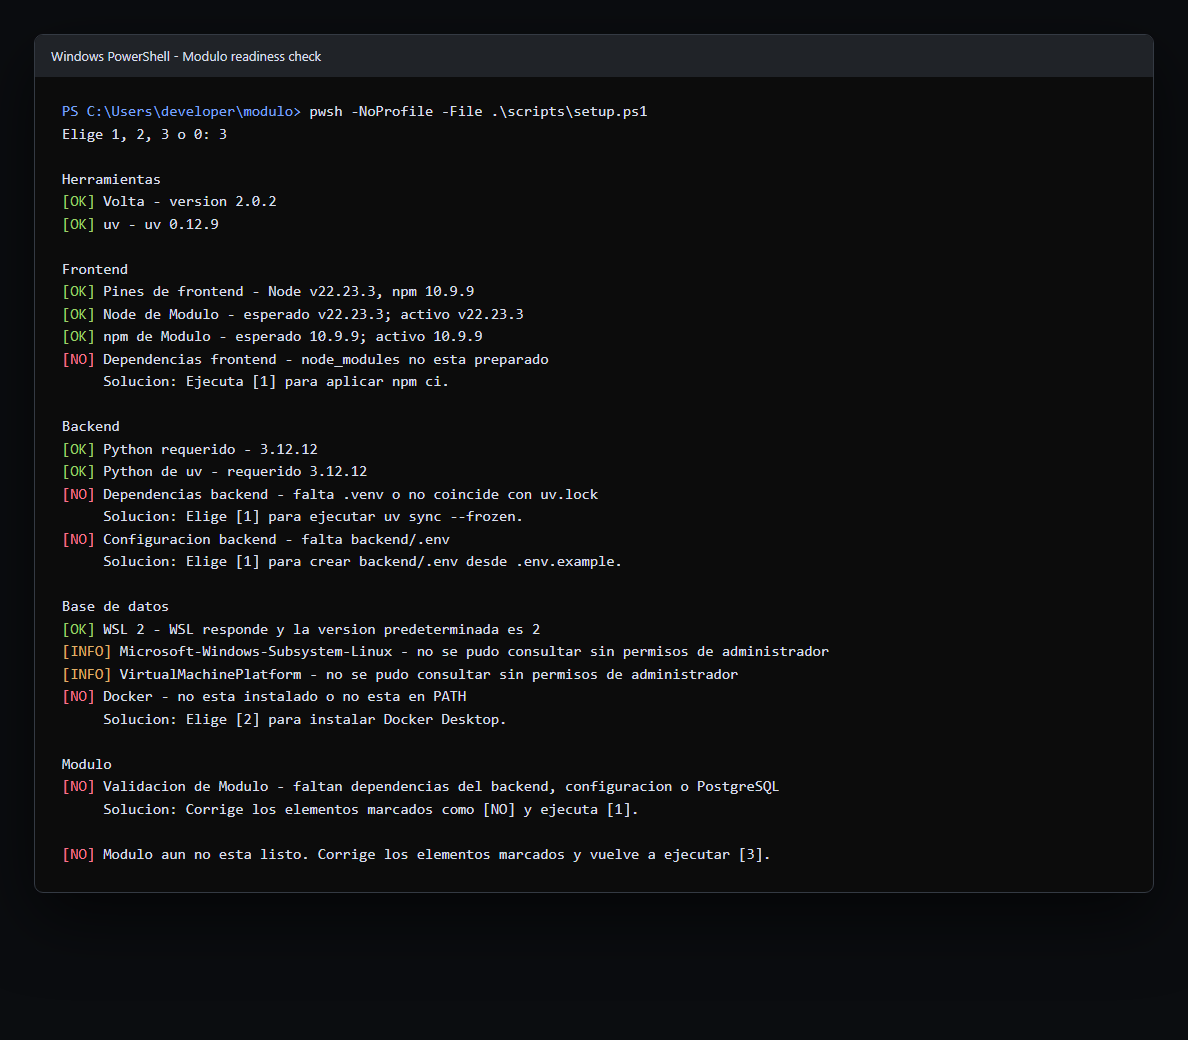
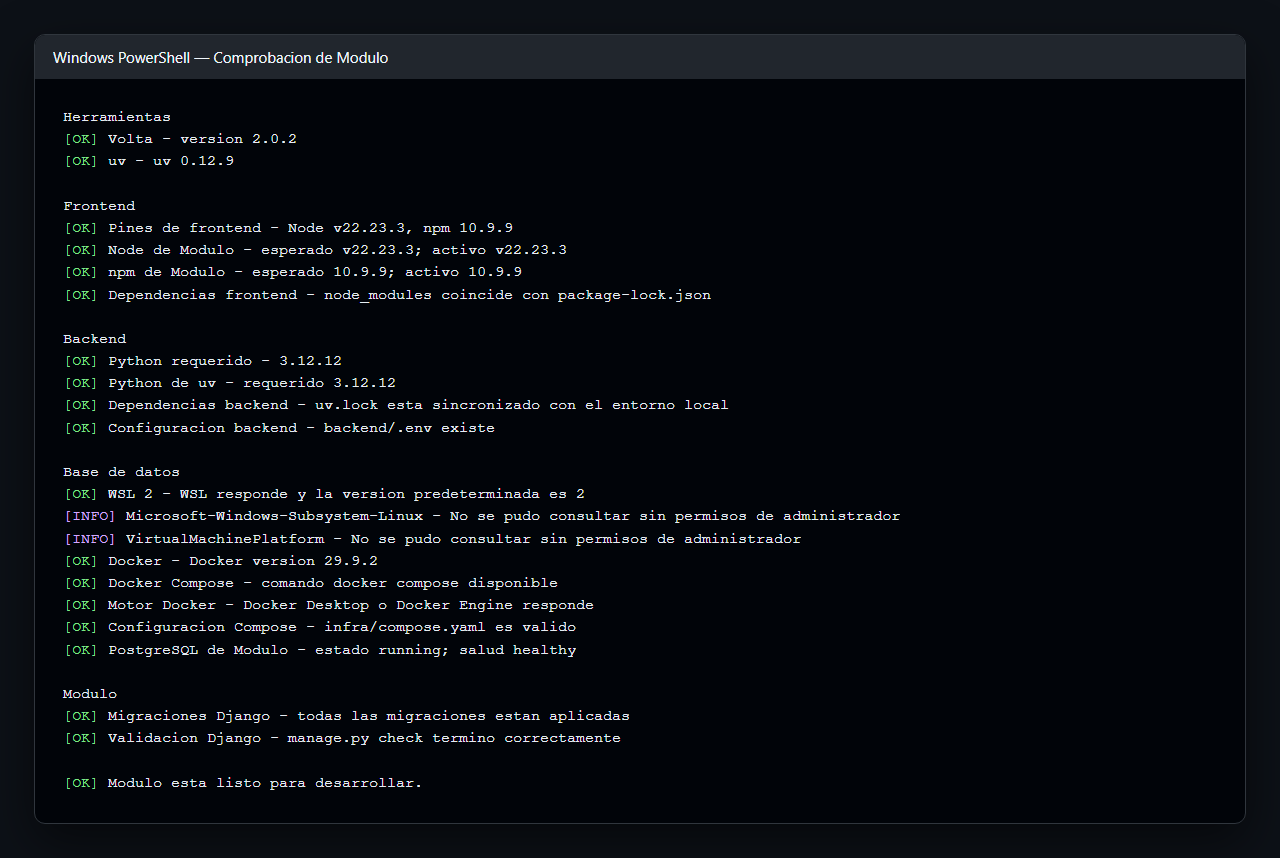
docs: actualizar capturas del preparador

Changed region(s): [[0.0, 0.0303, 0.9966, 0.8788], [0.0623, 0.9091, 0.3114, 0.9394], [0.5918, 0.7273, 0.654, 0.7879]]

diff --git a/README.md b/README.md
@@ -31,11 +31,9 @@ En Windows, prepara un clon nuevo con el script del repositorio:
 powershell.exe -NoProfile -ExecutionPolicy Bypass -File .\scripts\setup.ps1
 ```
 
-Este comando funciona tanto en Windows PowerShell 5.1 como en PowerShell 7. Si tu política de ejecución ya permite scripts locales, también sirve `.\scripts\setup.ps1`.
+Funciona con Windows PowerShell 5.1 y PowerShell 7; si la política local lo permite, también puedes usar `.\scripts\setup.ps1`.
 
-Elige `[1]` si ya tienes Volta, uv y Docker listos; elige `[2]` para una **instalación completa: herramientas + entorno de Modulo**, instalando con WinGet lo que falte. El script crea `backend/.env` si falta, instala los runtimes declarados, sincroniza los lockfiles, levanta PostgreSQL y aplica las migraciones. La opción `[3]` solo revisa el estado del equipo y del proyecto. La opción `[4]` prepara la infraestructura: si no encuentra un cliente Docker con Compose, ofrece instalar Docker Desktop con WinGet; después inicia Docker y PostgreSQL y pregunta si también debe aplicar migraciones. La opción `[5]` inicia PostgreSQL si hace falta y aplica solamente las migraciones Django.
-
-Puedes ejecutarlo de nuevo en cualquier clon: no sobrescribe `.env`, no modifica los lockfiles y aplica las migraciones pendientes. El primer `npm ci` del frontend puede tardar porque npm reconstruye cientos de paquetes; las ejecuciones posteriores lo omiten cuando el hash de `package-lock.json` y las dependencias instaladas siguen siendo válidos. Tras preparar backend y frontend, la opción `[1]` pregunta si quieres iniciar Docker, PostgreSQL y las migraciones; la opción `[2]` lo hace automáticamente. Si el motor no responde, el preparador localiza y abre Docker Desktop desde su instalación conocida o junto al cliente `docker.exe`, y espera a que esté listo. Si no puede abrirlo o no inicia en 90 segundos, muestra un aviso para abrir Docker Desktop manualmente y completar sus términos, WSL 2 o virtualización. Consulta [la guía de herramientas](docs/INSTALACION_HERRAMIENTAS.md) para los detalles de cada opción.
+Usa `[1]` para preparar un entorno ya equipado, `[2]` para una instalación completa, `[3]` para comprobar el estado, `[4]` para Docker/PostgreSQL (con migraciones opcionales) y `[5]` para solo migraciones. El primer `npm ci` puede tardar; las repeticiones omiten esa instalación si el lockfile y las dependencias siguen válidos. Consulta [la guía de herramientas](docs/INSTALACION_HERRAMIENTAS.md) para los detalles y diagnósticos.
 
 ![Menu del preparador de Windows](docs/screenshots/setup-menu.png)
 

diff --git a/docs/INSTALACION_HERRAMIENTAS.md b/docs/INSTALACION_HERRAMIENTAS.md
@@ -24,7 +24,7 @@ El menú muestra las acciones disponibles:
 
 ![Menu del preparador](screenshots/setup-menu.png)
 
-Este informe de `[3]` es una ejecución real en un clon sin preparar: Volta, uv, Node/npm y WSL 2 están disponibles; faltan `node_modules`, `.venv`, `backend/.env` y Docker. Las opciones de estado de Windows aparecen como informativas porque consultarlas requiere una terminal elevada.
+Este informe de `[3]` muestra un entorno listo para desarrollar. Las opciones de estado de Windows pueden aparecer como informativas cuando PowerShell no está elevado.
 
 ![Informe real de comprobacion de dependencias](screenshots/setup-check.png)
 
